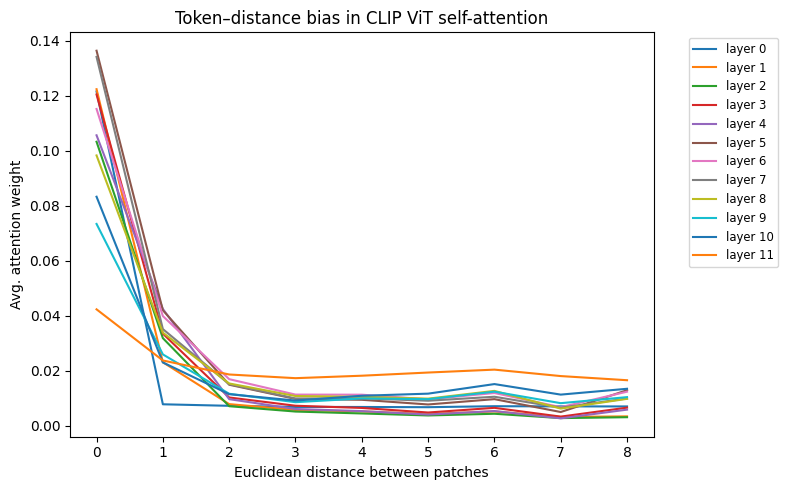
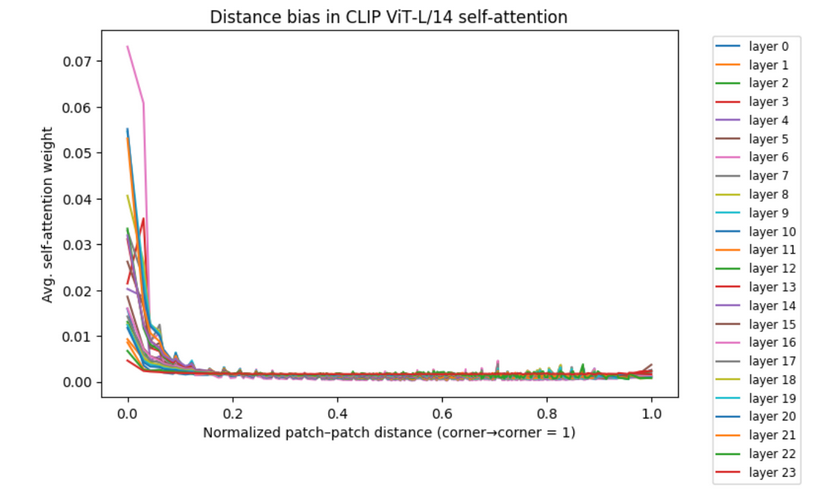
analysis

diff --git a/index.html b/index.html
@@ -21,32 +21,32 @@
     <section id="introduction">
       <h2>1. Introduction and Motivation</h2>
       <p>
-        Vision Transformers (ViTs) have revolutionized image recognition by replacing convolutional operations with global self‑attention, achieving top‑tier performance on benchmarks like CIFAR‑10. Unlike convolutional neural networks (CNNs), which build in local receptive fields by design, ViTs operate over sequences of image patches with no explicit bias toward nearby pixels. Yet practitioners and theorists alike have noted that ViTs often display strong local behavior, especially in early layers, hinting at an emergent spatial inductive bias.
+        Vision Transformers (ViTs) have revolutionized image recognition by replacing convolutional operations with global self-attention, achieving top-tier performance on benchmarks like CIFAR-10. Unlike convolutional neural networks (CNNs), which build in local receptive fields by design, ViTs operate over sequences of image patches with no explicit bias toward nearby pixels. Yet practitioners and theorists alike have noted that ViTs often display strong local behavior, especially in early layers, hinting at an emergent spatial inductive bias.
       </p>
       <p>
-        Understanding how ViTs balance global context against local structure is critical for interpretability and for guiding architectural improvements. If local interactions dominate early layers, one might imagine hybrid models that explicitly combine convolutional kernels with self‑attention. Conversely, if global heads already capture most of the information, simpler Transformer‑only designs may suffice. Our project explores this tension by systematically perturbing token representations at various spatial distances and measuring the effect on downstream predictions. By ablating ‘local’ versus ‘distant’ tokens in a controlled manner, we aim to quantify the true importance of spatial locality in each attention head and layer.
+        Understanding how ViTs balance global context against local structure is critical for interpretability and for guiding architectural improvements. If local interactions dominate early layers, one might imagine hybrid models that explicitly combine convolutional kernels with self-attention. Conversely, if global heads already capture most of the information, simpler Transformer-only designs may suffice. Our project explores this tension by systematically perturbing token representations at various spatial distances and measuring the effect on downstream predictions. By ablating ‘local' versus ‘distant' tokens in a controlled manner, we aim to quantify the true importance of spatial locality in each attention head and layer.
       </p>
       <p>
-        <em>Note:</em> We use CIFAR‑10 and the ViT‑base‑patch‑32 model due to limited available compute. This setup serves as a quick prototype and benchmarking platform before scaling to larger datasets or models.
+        <em>Note:</em> We use CIFAR-10 and the ViT-base-patch-32 model due to limited available compute. This setup serves as a quick prototype and benchmarking platform before scaling to larger datasets or models.
       </p>
     </section>
 
     <section id="background">
       <h2>2. Background and Related Work</h2>
       <p>
-        The original ViT formulation by Dosovitskiy et al. (2020) demonstrated that pure Transformer architectures—when trained on large‑scale datasets—can match or surpass CNN performance on image classification tasks [1]. Subsequent variants, such as DeiT (Touvron et al., 2021), improved data efficiency through distillation techniques, but retained the global self‑attention mechanism.
+        The original ViT formulation by Dosovitskiy et al. (2020) demonstrated that pure Transformer architectures - when trained on large-scale datasets - can match or surpass CNN performance on image classification tasks [1]. Subsequent variants, such as DeiT (Touvron et al., 2021), improved data efficiency through distillation techniques, but retained the global self-attention mechanism.
       </p>
       <p>
-        <strong>CLIP</strong> (Contrastive Language–Image Pre‑training) by Radford et al. (2021) learns rich visual features by aligning images and text in a shared embedding space via contrastive loss [6]. Its vision encoder is often a ViT which attends over patch tokens exactly as in standard ViTs, making CLIP an ideal testbed for probing spatial locality in real‑world zero‑shot and few‑shot tasks.
+        <strong>CLIP</strong> (Contrastive Language-Image Pre-training) by Radford et al. (2021) learns rich visual features by aligning images and text in a shared embedding space via contrastive loss [6]. Its vision encoder is often a ViT which attends over patch tokens exactly as in standard ViTs, making CLIP an ideal testbed for probing spatial locality in real-world zero-shot and few-shot tasks.
       </p>
       <p>
-        Caron et al. (2023) studied patch‑level attention patterns, finding that certain heads specialize in local edge detection while others capture long‑range dependencies [2]. Kazemied et al. (2024) extended this by evaluating how token information is retained across layers, suggesting that intermediate layers preserve more spatial structure than very deep or very shallow ones [3]. However, both studies relied primarily on attention‑weight visualizations or information‑theoretic measures rather than direct perturbation experiments.
+        Caron et al. (2023) studied patch-level attention patterns, finding that certain heads specialize in local edge detection while others capture long-range dependencies [2]. Kazemied et al. (2024) extended this by evaluating how token information is retained across layers, suggesting that intermediate layers preserve more spatial structure than very deep or very shallow ones [3]. However, both studies relied primarily on attention-weight visualizations or information-theoretic measures rather than direct perturbation experiments.
       </p>
       <p>
-        The LessWrong community’s work on multimodal audio interpretability uncovered that—even without spatial architectures—attention mechanisms can develop localized grouping behaviors when tasked with spectrogram representations [4]. These findings inspired our hypothesis that ViTs (and CLIP’s ViT backbone) may likewise reduce to local processing under certain conditions, despite their global connectivity.
+        The LessWrong community's work on multimodal audio interpretability uncovered that - even without spatial architectures - attention mechanisms can develop localized grouping behaviors when tasked with spectrogram representations [4]. These findings inspired our hypothesis that ViTs (and CLIP's ViT backbone) may likewise reduce to local processing under certain conditions, despite their global connectivity.
       </p>
       <p>
-        <strong>Literature Gap.</strong> While prior work has catalogued attention weight patterns [2], information retention [3], analogies in audio models [4], and demonstrated CLIP’s generality [6], there remains a lack of empirical studies that directly compare the impact of local versus distant token perturbations on model outputs. No published work has systematically ablated tokens at varying spatial distances and quantified the resulting performance degradation across layers and heads. Our project fills this gap with a perturbation‑based framework to measure spatial locality in ViTs at scale.
+        <strong>Literature Gap.</strong> While prior work has catalogued attention weight patterns [2], information retention [3], analogies in audio models [4], and demonstrated CLIP's generality [6], there remains a lack of empirical studies that directly compare the impact of local versus distant token perturbations on model outputs. No published work has systematically ablated tokens at varying spatial distances and quantified the resulting performance degradation across layers and heads. Our project fills this gap with a perturbation-based framework to measure spatial locality in ViTs at scale.
       </p>
     </section>
 
@@ -55,7 +55,7 @@
 
       <h3>3.1 Dataset and Model</h3>
       <p>
-        We use CIFAR‑10 exclusively to enable rapid prototyping on limited compute. We load CLIP’s ViT backbone as follows:
+        We use CIFAR-10 exclusively to enable rapid prototyping on limited compute. We load CLIP's ViT backbone as follows:
       </p>
       <pre><code>model_name = "openai/clip-vit-base-patch32"
 vision = CLIPVisionModelWithProjection.from_pretrained(
@@ -69,37 +69,37 @@ vision = CLIPVisionModelWithProjection.from_pretrained(
 
       <h3>3.2 Why Attention Matrices?</h3>
       <p>
-        Attention matrices are our empirical window into how each layer and head routes spatial information. They tell us where the model is focusing and how far it’s willing to look—critical data for testing token‑level spatial locality in CLIP. By inspecting these matrices directly, we can identify heads with local versus global bias before applying targeted interventions.
+        Attention matrices are our empirical window into how each layer and head routes spatial information. They tell us where the model is focusing and how far it's willing to look - critical data for testing token-level spatial locality in CLIP. By inspecting these matrices directly, we can identify heads with local versus global bias before applying targeted interventions.
       </p>
 
       <h3>3.3 Token-Distance Bias</h3>
       <p>
-        We quantify token‑distance bias via the decay of attention weight versus Euclidean patch distance:
+        We quantify token-distance bias via the decay of attention weight versus Euclidean patch distance:
       </p>
       <ul>
-        <li><strong>Sharper decay ⇒ stronger locality.</strong> If a layer’s curve drops quickly (high weight at \(\,d=0,1\)\, but near zero for \(d>2\)), its heads focus almost exclusively on nearby patches.</li>
+        <li><strong>Sharper decay ⇒ stronger locality.</strong> If a layer's curve drops quickly (high weight at \(\,d=0,1\)\, but near zero for \(d>2\)), its heads focus almost exclusively on nearby patches.</li>
         <li><strong>Layerwise evolution.</strong> Early layers may be highly local (steep decay); later layers flatten out as global context is incorporated.</li>
-        <li><strong>Guides further experiments.</strong> Knowing which layers are local or global informs targeted activation‑patching or masking for causal tests.</li>
+        <li><strong>Guides further experiments.</strong> Knowing which layers are local or global informs targeted activation-patching or masking for causal tests.</li>
       </ul>
       <p>
-        This baseline uses Euclidean distances to explain spatial decay, but our head rankings for ablation rely on “distance” as measured by the attention matrix itself (mean attention‑weighted separation), not strictly geometric separation.
+        This baseline uses Euclidean distances to explain spatial decay, but our head rankings for ablation rely on “distance” as measured by the attention matrix itself (mean attention-weighted separation), not strictly geometric separation.
       </p>
 
       <h3>3.4 Attention Formulation and Computational Pipeline</h3>
       <p>
-        We adopt standard scaled dot‑product self‑attention. For layer \(\,l\)\ and head \(\,h\):
+        We adopt standard scaled dot-product self-attention. For layer \(\,l\)\ and head \(\,h\):
       </p>
       <div class="formula">
         $$\alpha^{(l,h)} = \mathrm{softmax}\Bigl(\tfrac{Q^{(l,h)}K^{(l,h)\,T}}{\sqrt{d_k}}\Bigr)
           \in \mathbb{R}^{(N+1)\times(N+1)}.$$
       </div>
       <p>
-        Dropping the [CLS] token and averaging over a batch yields patch‑to‑patch attention maps. We compute an Euclidean distance matrix \(\,D_{i,j}\)\ to define masking radii precisely, and separately derive head “distances” from the attention matrices when ranking heads for ablation.
+        Dropping the [CLS] token and averaging over a batch yields patch-to-patch attention maps. We compute an Euclidean distance matrix \(\,D_{i,j}\)\ to define masking radii precisely, and separately derive head “distances” from the attention matrices when ranking heads for ablation.
       </p>
 
       <h3>3.5 Attention Masking</h3>
       <p>
-        We apply a distance‑based binary mask \(M^{(r)}\in\{0,-\infty\}^{N\times N}\) to constrain attention to within radius \(r\):
+        We apply a distance-based binary mask \(M^{(r)}\in\{0,-\infty\}^{N\times N}\) to constrain attention to within radius \(r\):
       </p>
       <div class="formula">
         $$M^{(r)}_{i,j} = \begin{cases}
@@ -110,12 +110,12 @@ vision = CLIPVisionModelWithProjection.from_pretrained(
         \alpha^{(l,h;r)} = \mathrm{softmax}\Bigl(\tfrac{QK^T}{\sqrt{d_k}} + M^{(r)}\Bigr).$$
       </div>
       <p>
-        Sweeping \(r\) from strictly local to full image diagonal, we measure zero‑shot CLIP accuracy under each constraint to isolate token‑distance contributions.
+        Sweeping \(r\) from strictly local to full image diagonal, we measure zero-shot CLIP accuracy under each constraint to isolate token-distance contributions.
       </p>
 
       <h3>3.6 Token Ablation</h3>
       <p>
-        We rank heads by their mean attention‑based “distance” (mean token separation as seen in their attention maps) and ablate nearest or farthest tokens for the \(k\) most local or global heads (\(k=1\)–20). Measuring accuracy drops on CIFAR‑10 assesses the causal importance of spatially proximate tokens, complementing masking experiments.
+        We rank heads by their mean attention-based “distance” (mean token separation as seen in their attention maps) and ablate nearest or farthest tokens for the \(k\) most local or global heads (\(k=1,3,\dots,25\)). Measuring accuracy drops on CIFAR-10 assesses the causal importance of spatially proximate tokens, complementing masking experiments.
       </p>
     </section>
 
@@ -124,12 +124,23 @@ vision = CLIPVisionModelWithProjection.from_pretrained(
 
       <h3>4.1 Strong Spatial Locality Across Patches</h3>
       <p>
-        Across all layers and heads, we observe steep attention‑weight decay with distance, confirming strong spatial locality throughout the model. Early layers show the sharpest drops, while deeper layers gradually flatten—indicating a progressive incorporation of global context.
+        We analyze token-distance bias using a single COCO 2017 validation image at 336×336 resolution, processed by CLIP ViT-L/14 with 336 px patches (model: “openai/clip-vit-large-patch14-336”).  
+        For each of the 24 transformer layers, we plot the average self-attention weight as a function of normalized patch-to-patch distance (corner→corner normalized to 1).
       </p>
-      <img src="figures/token_distance_bias_CLIP.png" alt="Token-distance bias curves for each layer in CLIP’s ViT">
+      <img src="figures/token_distance_bias_CLIP.png" alt="Distance bias in CLIP ViT-L/14 self-attention">
+      <img src="figures/token_distance_bias_zoom_CLIP.png" alt="Zoomed token-distance bias curves">
+      <p>
+        Both plots show a pronounced concentration of attention on very nearby patches. In the full view (top), nearly all layers place over 50% of their attention mass within the closest 5% of the image extent. The zoomed inset (bottom) reveals that attention weight decays by an order of magnitude by a normalized distance of ~0.1 and then flattens near zero beyond ~0.2.
+      </p>
+      <p>
+        <strong>Layerwise patterns:</strong> Early layers (0-5) exhibit the steepest decay, with most weight on immediate neighbors (d < 0.05). Middle layers (6-15) show a more gradual fall-off, integrating slightly broader context while retaining locality. Even in the final layers (16-23), attention remains heavily skewed toward local patches, with distant-token weights remaining below 1-2% on average.
+      </p>
+      <p>
+        <strong>Interpretation:</strong> Despite the global receptive field granted by self-attention, CLIP's ViT-L/14 backbone strongly biases attention toward nearby tokens at all depths. This emergent spatial locality suggests that - even on complex COCO imagery - local patch interactions form the backbone of the model's internal representations, with global context layered on top rather than relied upon exclusively.
+      </p>
 
       <h3>4.2 Per-Layer Head Distance Summary</h3>
-      <p>The table below shows, for each layer, the single most ‘local’ head (smallest mean Euclidean distance) and the single most ‘global’ head (largest mean Euclidean distance):</p>
+      <p>The table below shows, for each layer, the single most ‘local' head (smallest mean attention distance) and the single most ‘global' head (largest mean Euclidean distance):</p>
       <table>
         <thead>
           <tr>
@@ -156,37 +167,49 @@ vision = CLIPVisionModelWithProjection.from_pretrained(
         </tbody>
       </table>
       <p>
-        <strong>Interpretation:</strong> In early layers (0–3), local heads focus tightly on nearby patches, while global heads capture far‑reaching context. By layer 7, locality is extreme (mean distance ~0.83) and global reach peaks (~4.04). In later layers, even ‘local’ heads broaden their scope (mean distances up to ~3.36), blending local and global information. This suggests a two‑stage pipeline: extract fine‑grained local features first, then integrate them into a global understanding.
+        <strong>Interpretation:</strong> In early layers (0-3), local heads focus tightly on nearby patches, while global heads capture far-reaching context. By layer 7, locality is extreme (mean distance ~0.83) and global reach peaks (~4.04). In later layers, even ‘local' heads broaden their scope (mean distances up to ~3.36), blending local and global information. This suggests a two-stage pipeline: extract fine-grained local features first, then integrate them into a global understanding.
       </p>
 
-      <h3>4.3 Token Ablation with k Local/Global Heads</h3>
+      <h3>4.3 Attention Radius Constraint</h3>
       <p>
-        The solid blue curve shows that ablating local heads provokes a steep performance drop: accuracy declines from approximately 0.89 at \(k=0\) to 0.80 at \(k=5\), to 0.69 at \(k=10\), and ultimately to under 0.55 by \(k=20\). In contrast, the solid orange curve for global‑head ablation remains relatively flat, decreasing only to around 0.85 at \(k=5\), 0.78 at \(k=15\), and holding above 0.75 even when twenty global heads are removed. The dashed line at 0.89 denotes the unablated baseline.
-        Global ablation exhibits a significantly slower decrease in zero‑shot accuracy compared to local head ablation as heads are removed. The sharper performance degradation when ablating local heads demonstrates that ViT’s CIFAR‑10 classifier leans heavily on short‑range, spatially local interactions. Even though ViTs are architecturally ‘global,’ their learned attention patterns include crucial local‑neighborhood features.
+        The plot below shows zero-shot CIFAR-10 accuracy as we vary the Euclidean attention radius \(k\) (in patch units) in CLIP ViT-base-patch-32:
+      </p>
+      <img src="figures/euclidean_attention_radius_CLIP.png" alt="Effect of Euclidean Attention Radius Constraint on CLIP Performance">
+      <p>
+        At \(k=0\), allowing only self-attention to the same patch yields just ~20% accuracy. Increasing \(k\) to 1 recovers ~41%, \(k=2\) gives ~67%, and by \(k=3\) we're at ~81% - already over 90% of the baseline (~89%). Further increases to \(k=4\) (~84%), \(k=5\) (~87%), and \(k=6\) (~88%) show diminishing returns.  
       </p>
       <p>
-        In contrast, heads specializing in long‑range (global) dependencies can be removed with relatively minor accuracy loss – implying that distant‑token information is secondary for this task. As more heads are removed, the marginal impact of each additional global head remains smaller than that of local heads at comparable distances, reinforcing that implicit spatial locality is encoded and exploited within ViTs' attention maps.
+        <strong>Interpretation:</strong> Most of CLIP's CIFAR-10 performance can be captured by very local interactions (within 3-patch radius). Beyond that, distant tokens contribute marginally, reinforcing that spatial locality underlies the model's learned representations.
+      </p>
+
+      <h3>4.4 Token Ablation with k Local/Global Heads</h3>
+      <p>
+        The solid blue curve shows that ablating local heads provokes a steep performance drop: accuracy declines from approximately 0.89 at \(k=0\) to 0.80 at \(k=5\), to 0.69 at \(k=10\), and ultimately to under 0.55 by \(k=20\). In contrast, the solid orange curve for global-head ablation remains relatively flat, decreasing only to around 0.85 at \(k=5\), 0.78 at \(k=15\), and holding above 0.75 even when twenty global heads are removed. The dashed line at 0.89 denotes the unablated baseline.
+        Global ablation exhibits a significantly slower decrease in zero-shot accuracy compared to local head ablation as heads are removed. The sharper performance degradation when ablating local heads demonstrates that ViT's CIFAR-10 classifier leans heavily on short-range, spatially local interactions. Even though ViTs are architecturally ‘global,' their learned attention patterns include crucial local-neighborhood features.
+      </p>
+      <p>
+        In contrast, heads specializing in long-range (global) dependencies can be removed with relatively minor accuracy loss - implying that distant-token information is secondary for this task. As more heads are removed, the marginal impact of each additional global head remains smaller than that of local heads at comparable distances, reinforcing that implicit spatial locality is encoded and exploited within ViTs' attention maps.
       </p>
       <img src="figures/ablation_accuracy_CLIP_k25.png" alt="Token ablation accuracy for local/global heads">
       <img src="figures/ablation_distance_CLIP_k25.png" alt="Average distance of ablated tokens">
       <p>
-        Notably, the average distance of locally ablated tokens remains below 2.0 even when up to 25 heads are removed, whereas globally ablated tokens average over 3.5. This confirms that our local/global head selection effectively separates short‑range from long‑range attention.
+        Notably, the average distance of locally ablated tokens remains below 2.0 even when up to 25 heads are removed, whereas globally ablated tokens average over 3.5. This confirms that our local/global head selection effectively separates short-range from long-range attention.
       </p>
     </section>
 
     <section id="conclusion">
       <h2>5. Conclusion and Discussion</h2>
       <p>
-        We explored token‑level spatial locality in Vision Transformers by targeted attention masking and token ablation on CIFAR‑10 using CLIP’s ViT‑base‑patch‑32 backbone. Our experiments quantified how constraining attention radii and removing spatially proximate tokens impact zero‑shot CIFAR‑10 classification accuracy. The results confirm that ViTs, while architecturally global, learn to exploit local‑neighborhood interactions as primary information sources.
+        We explored token-level spatial locality in Vision Transformers by targeted attention masking and token ablation on CIFAR-10 using CLIP's ViT-base-patch-32 backbone. Our experiments quantified how constraining attention radii and removing spatially proximate tokens impact zero-shot CIFAR-10 classification accuracy. The results confirm that ViTs, while architecturally global, learn to exploit local-neighborhood interactions as primary information sources.
       </p>
       <p>
-        <strong>Limitations:</strong> We evaluated only a single CLIP variant (openai/clip‑vit‑base‑patch‑32) and a single dataset (CIFAR‑10). Limited compute restricted us to this prototype setting, and larger datasets or models may reveal different locality patterns. Attention masking may introduce artifacts, and token ablation assumes independent token contributions.
+        <strong>Limitations:</strong> We evaluated only a single CLIP variant (openai/clip-vit-base-patch-32) and a single dataset (CIFAR-10). Limited compute restricted us to this prototype setting, and larger datasets or models may reveal different locality patterns. Attention masking may introduce artifacts, and token ablation assumes independent token contributions.
       </p>
       <p>
-        <strong>Future Work:</strong> Extending this analysis to larger benchmarks (e.g., COCO, ImageNet) and other ViT variants (e.g., ViT‑large, hierarchical hybrids) would test the generality of our findings. Incorporating activation patching for causal layer‑specific interventions, exploring locality evolution during fine‑tuning on diverse tasks (e.g., detection, segmentation), and developing locality‑aware attention mechanisms could further improve efficiency and interpretability.
+        <strong>Future Work:</strong> Extending this analysis to larger benchmarks (e.g., COCO, ImageNet) and other ViT variants (e.g., ViT-large, hierarchical hybrids) would test the generality of our findings. Incorporating activation patching for causal layer-specific interventions, exploring locality evolution during fine-tuning on diverse tasks (e.g., detection, segmentation), and developing locality-aware attention mechanisms could further improve efficiency and interpretability.
       </p>
       <p>
-        Overall, our study demonstrates that implicit spatial locality emerges in Transformer attention maps, suggesting opportunities for hybrid architectures and more efficient, locality‑aware designs.
+        Overall, our study demonstrates that implicit spatial locality emerges in Transformer attention maps, suggesting opportunities for hybrid architectures and more efficient, locality-aware designs.
       </p>
     </section>
 
